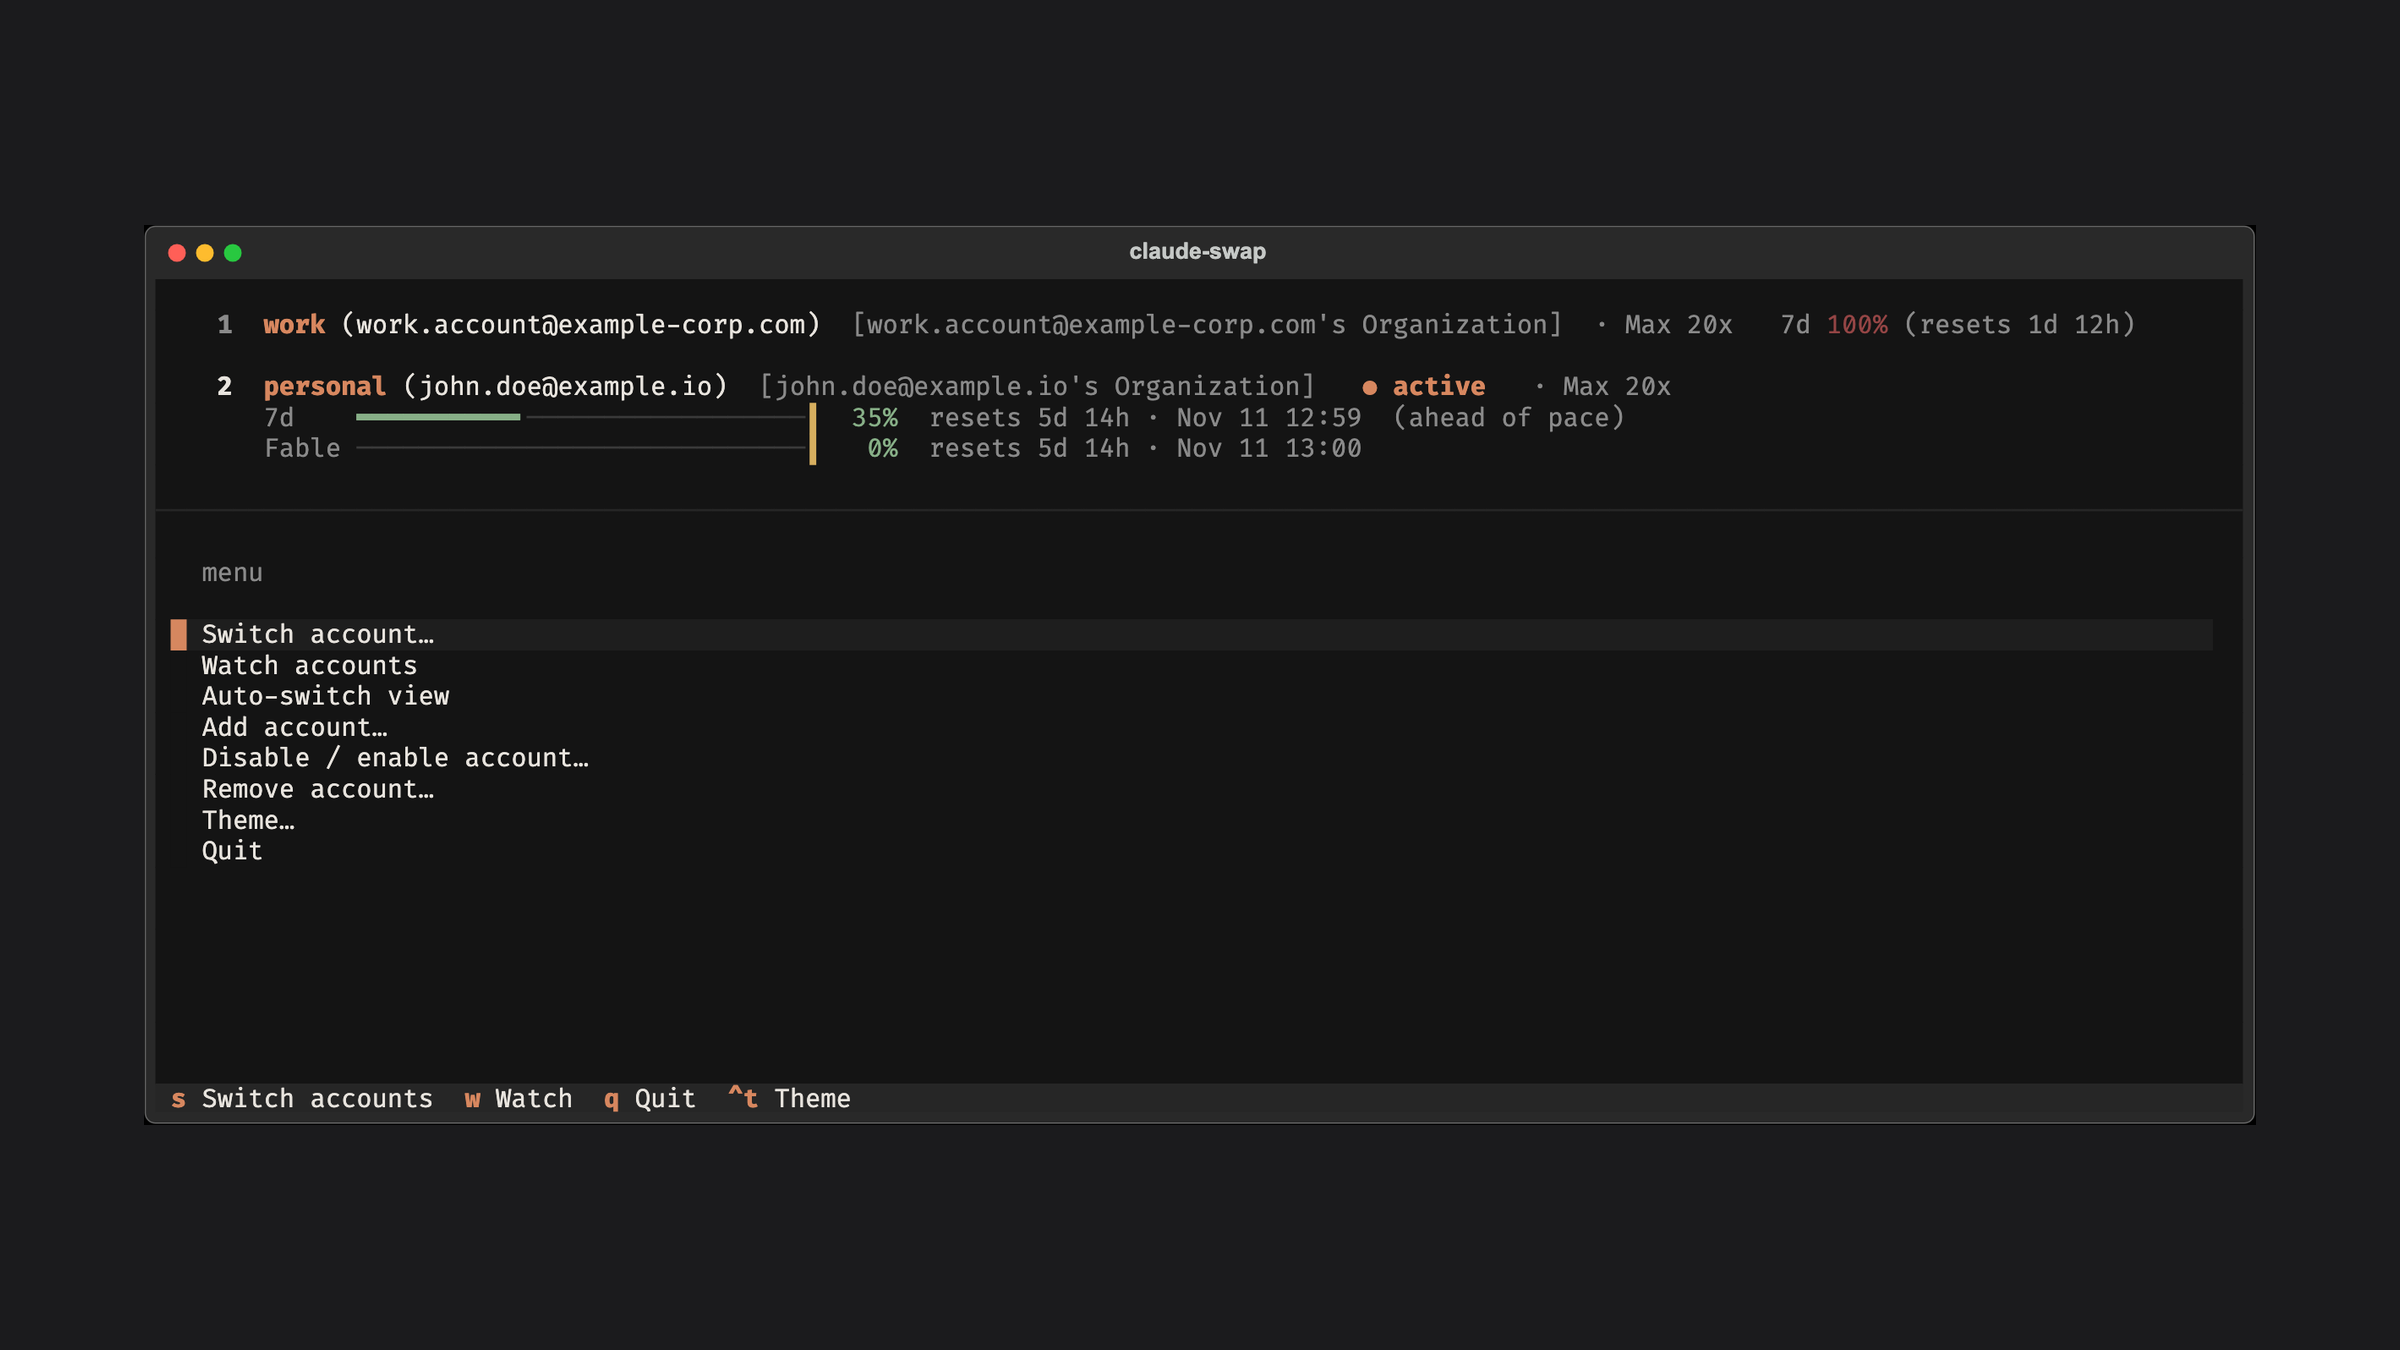
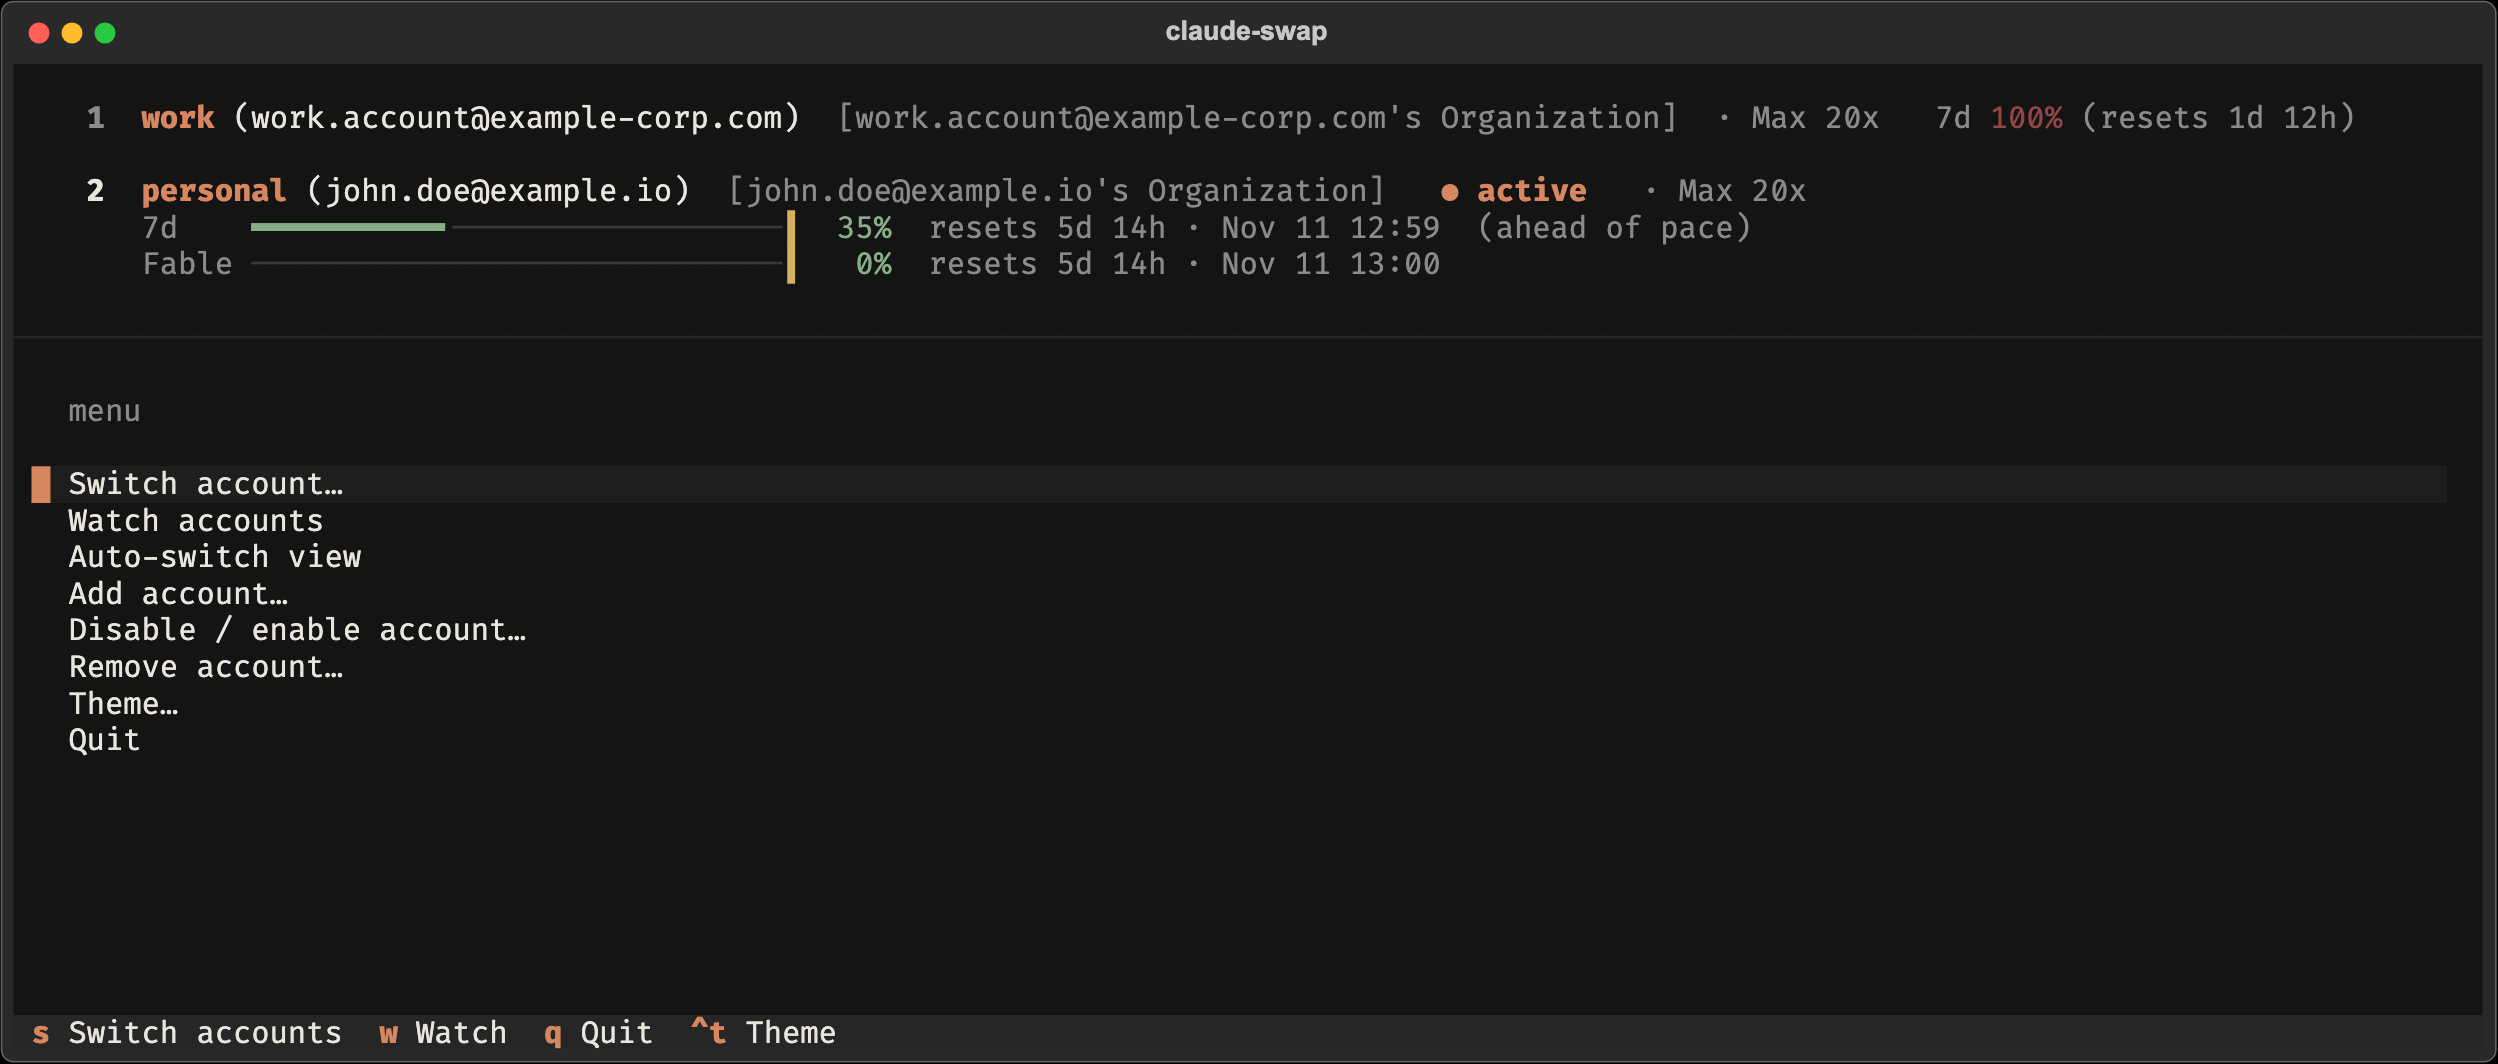
fix: hero overlap, crisp screenshots, hide zero badges, labeled verify
- Hero card no longer slides up over the CTA buttons, and keeps full size on mobile
- Screenshots use the unpadded originals at their natural aspect
- Hide stars/issues when 0
- Install verify line gets a label

diff --git a/app/page.tsx b/app/page.tsx
@@ -133,7 +133,7 @@ export default function LandingPage() {
           <ContainerScroll titleComponent={<></>}>
             <MediaFrame
               media={hero.media}
-              className="mx-auto rounded-2xl object-cover h-auto w-full md:h-full object-left-top"
+              className="mx-auto rounded-xl h-auto w-full"
             />
           </ContainerScroll>
         </div>
@@ -191,11 +191,11 @@ export default function LandingPage() {
                   </div>
                   <div className="w-full md:w-[60%] relative">
                     <div
-                      className={`w-full aspect-[16/10] md:aspect-[16/9] bg-[#F5F5F4] rounded-2xl overflow-hidden shadow-xl border border-[rgba(55,50,47,0.08)] flex items-center justify-center transition-transform duration-700 hover:scale-[1.02] ${
+                      className={`w-full bg-[#EDE8E3] rounded-2xl overflow-hidden shadow-xl border border-[rgba(55,50,47,0.08)] p-3 sm:p-5 flex items-center justify-center transition-transform duration-700 hover:scale-[1.02] ${
                         reversed ? "md:-translate-x-8" : "md:translate-x-12"
                       }`}
                     >
-                      <MediaFrame media={feature.media} className="w-full h-full object-cover" />
+                      <MediaFrame media={feature.media} className="w-full h-auto rounded-lg shadow-md" />
                     </div>
                   </div>
                 </div>

diff --git a/components/ui/container-scroll-animation.tsx b/components/ui/container-scroll-animation.tsx
@@ -27,7 +27,7 @@ export const ContainerScroll = ({
   }, []);
 
   const scaleDimensions = () => {
-    return isMobile ? [0.7, 0.9] : [1.05, 1];
+    return isMobile ? [1, 1] : [1.05, 1];
   };
 
   const rotate = useTransform(scrollYProgress, [0, 1], [0, 0]); // 각도 변화 제거
@@ -36,7 +36,7 @@ export const ContainerScroll = ({
 
   return (
     <div
-      className="h-auto md:h-[40rem] flex items-center justify-center relative p-2 md:p-10"
+      className="h-auto flex items-center justify-center relative p-2 md:p-10"
       ref={containerRef}
     >
       <div
@@ -83,7 +83,7 @@ export const Card = ({
         rotateX: rotate,
         scale,
       }}
-      className="max-w-5xl -mt-12 mx-auto h-auto md:h-[40rem] w-full border-4 border-[#6C6C6C] p-2 md:p-6 bg-[#222222] rounded-[30px] shadow-2xl"
+      className="max-w-5xl mt-6 md:mt-10 mx-auto h-auto w-full border-4 border-[#6C6C6C] p-2 md:p-6 bg-[#222222] rounded-[30px] shadow-2xl"
     >
       <div className=" h-full w-full  overflow-hidden rounded-2xl bg-gray-100 dark:bg-zinc-900 md:rounded-2xl md:p-4 ">
         {children}

diff --git a/components/repo-badges.tsx b/components/repo-badges.tsx
@@ -16,7 +16,8 @@ export async function RepoBadges() {
   const items: { label: string; value: string; icon: React.ReactNode }[] = []
 
   if (stats) {
-    items.push({
+    // 0 은 "죽은 프로젝트"로 읽힌다 — 값이 없을 때와 같이 숨긴다.
+    if (stats.stars > 0) items.push({
       label: "stars",
       value: compact(stats.stars),
       icon: (
@@ -36,7 +37,7 @@ export async function RepoBadges() {
         ),
       })
     }
-    items.push({
+    if (stats.openIssues > 0) items.push({
       label: "open issues",
       value: compact(stats.openIssues),
       icon: (

diff --git a/components/install-command.tsx b/components/install-command.tsx
@@ -89,7 +89,10 @@ export function InstallCommand({ id = "install" }: { id?: string }) {
       )}
 
       {install.verify && (
-        <p className="text-center text-xs text-[rgba(55,50,47,0.5)] font-mono">{install.verify}</p>
+        <p className="text-center text-xs text-[rgba(55,50,47,0.6)] font-sans">
+          {install.verifyLabel && <span className="mr-1.5">{install.verifyLabel}</span>}
+          <code className="font-mono text-[#37322F] bg-[rgba(55,50,47,0.06)] px-1.5 py-0.5 rounded">{install.verify}</code>
+        </p>
       )}
     </div>
   )
